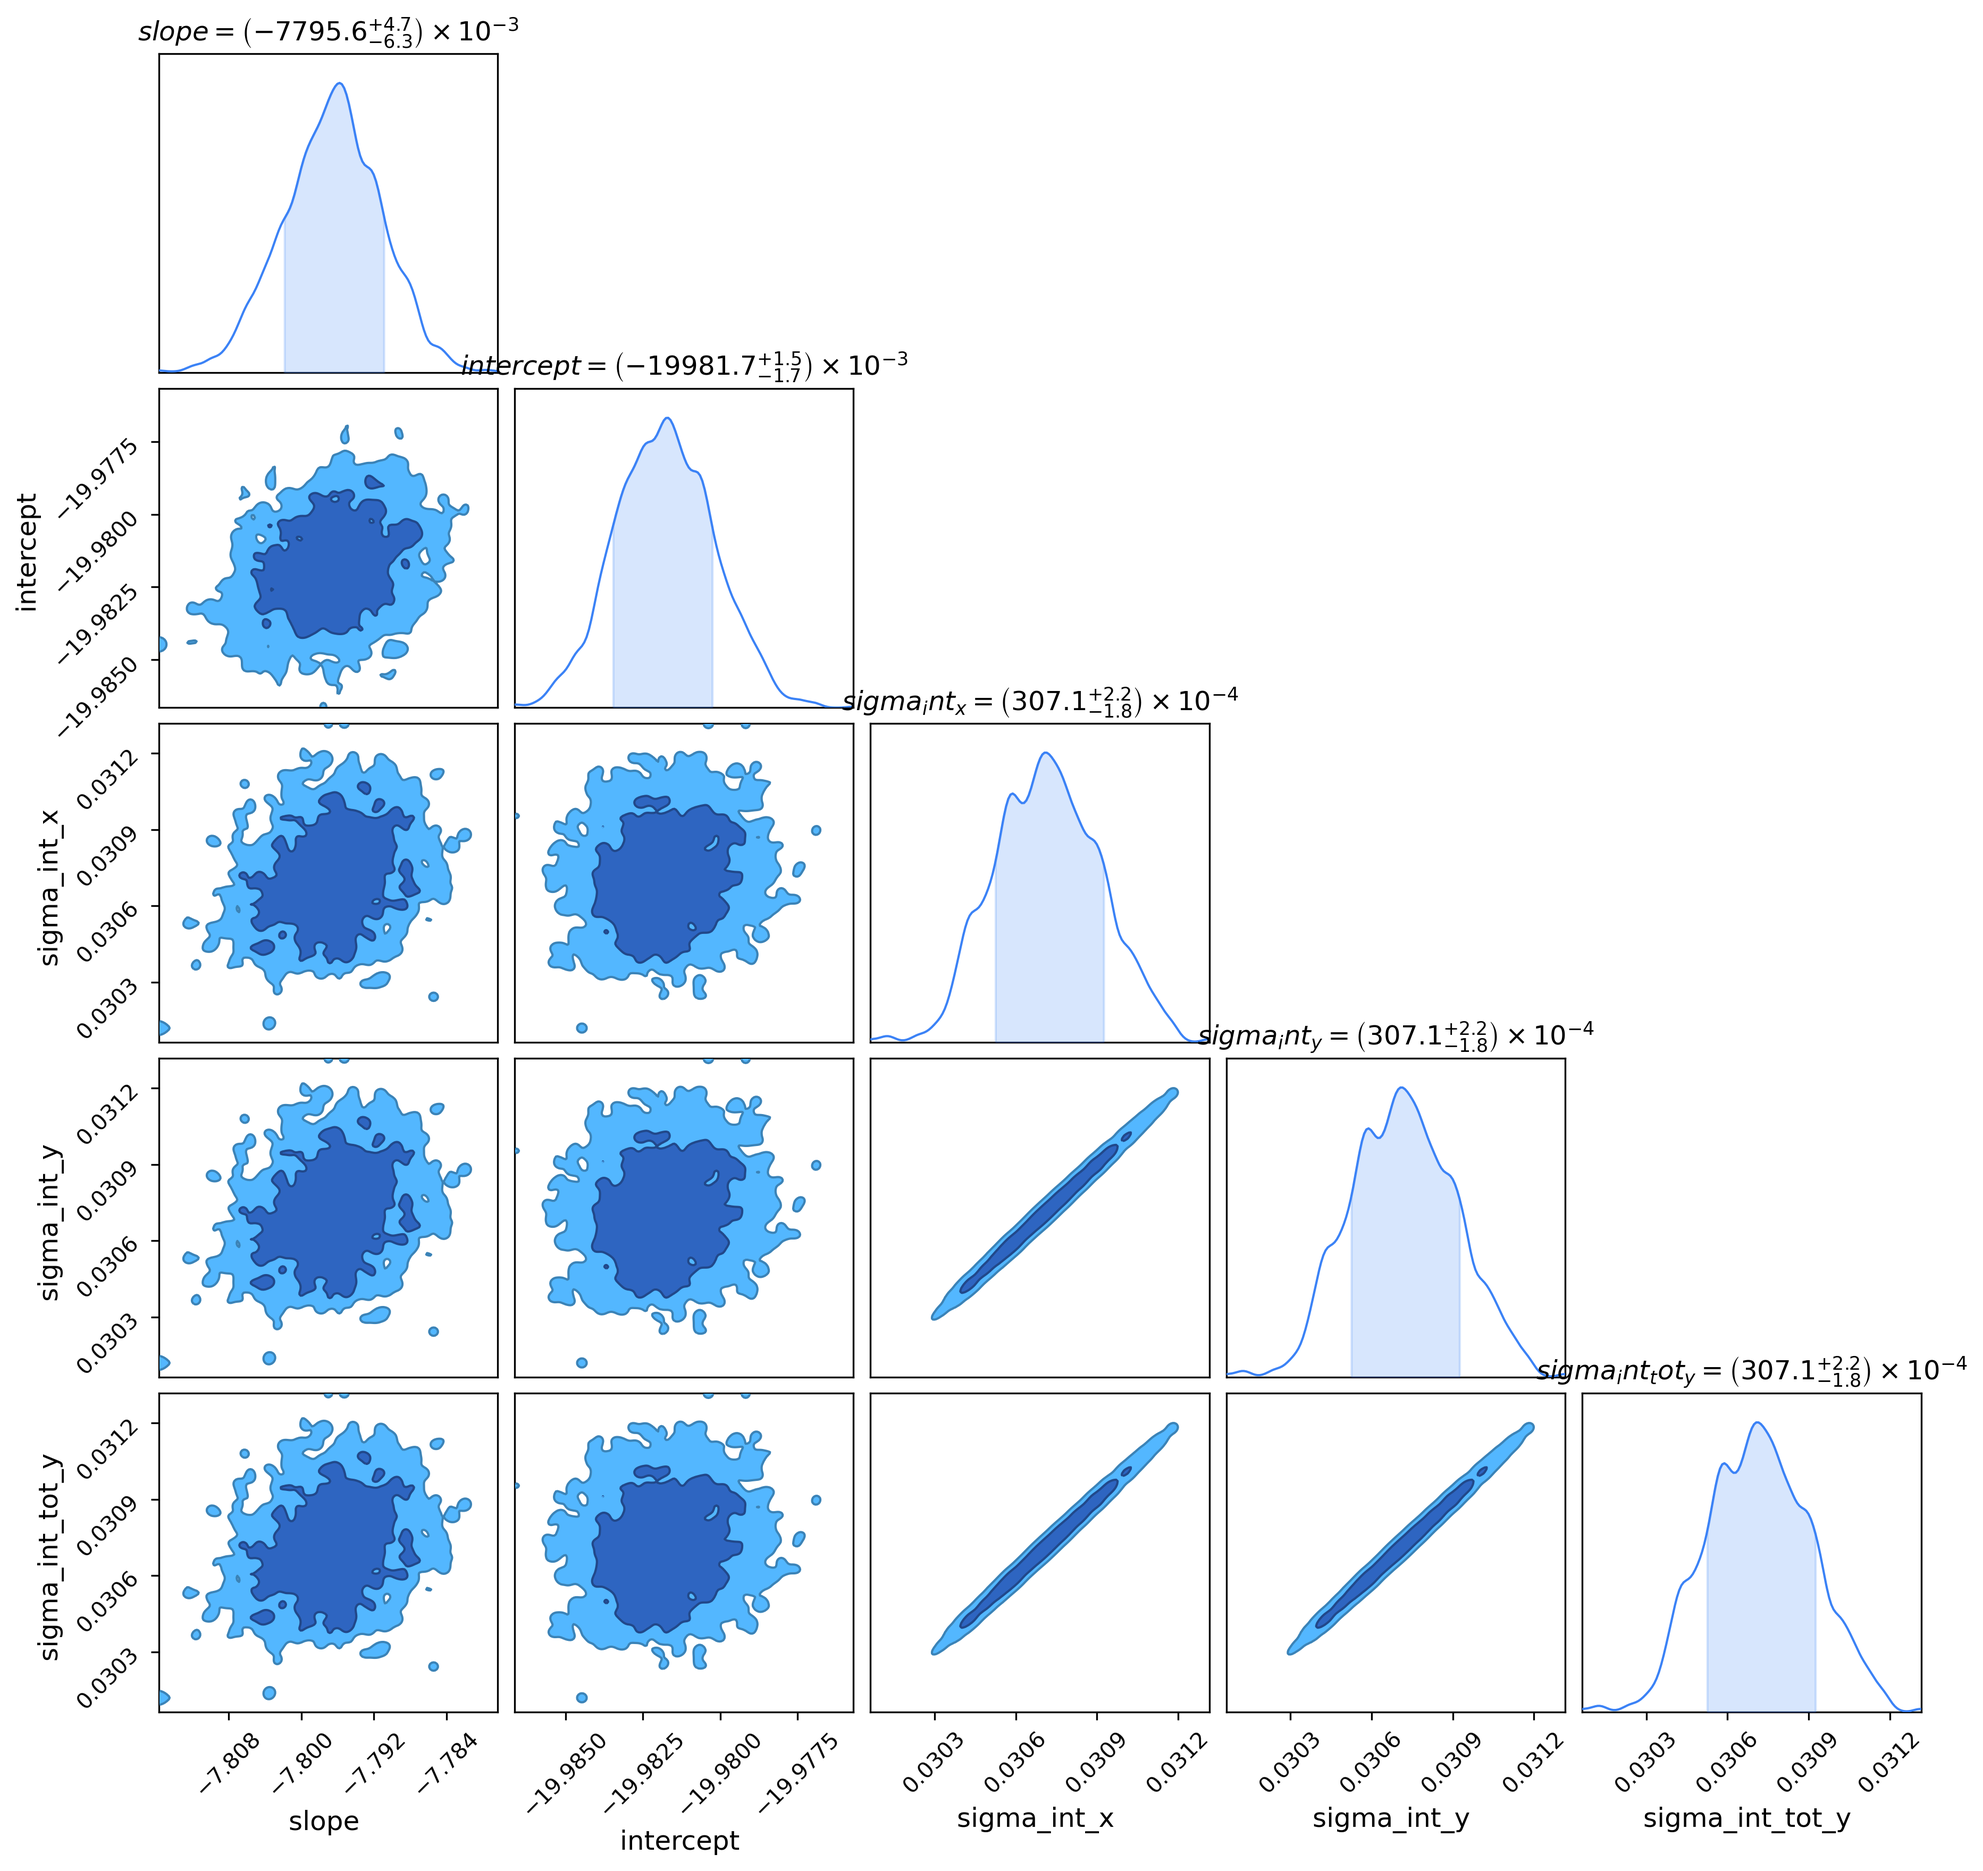
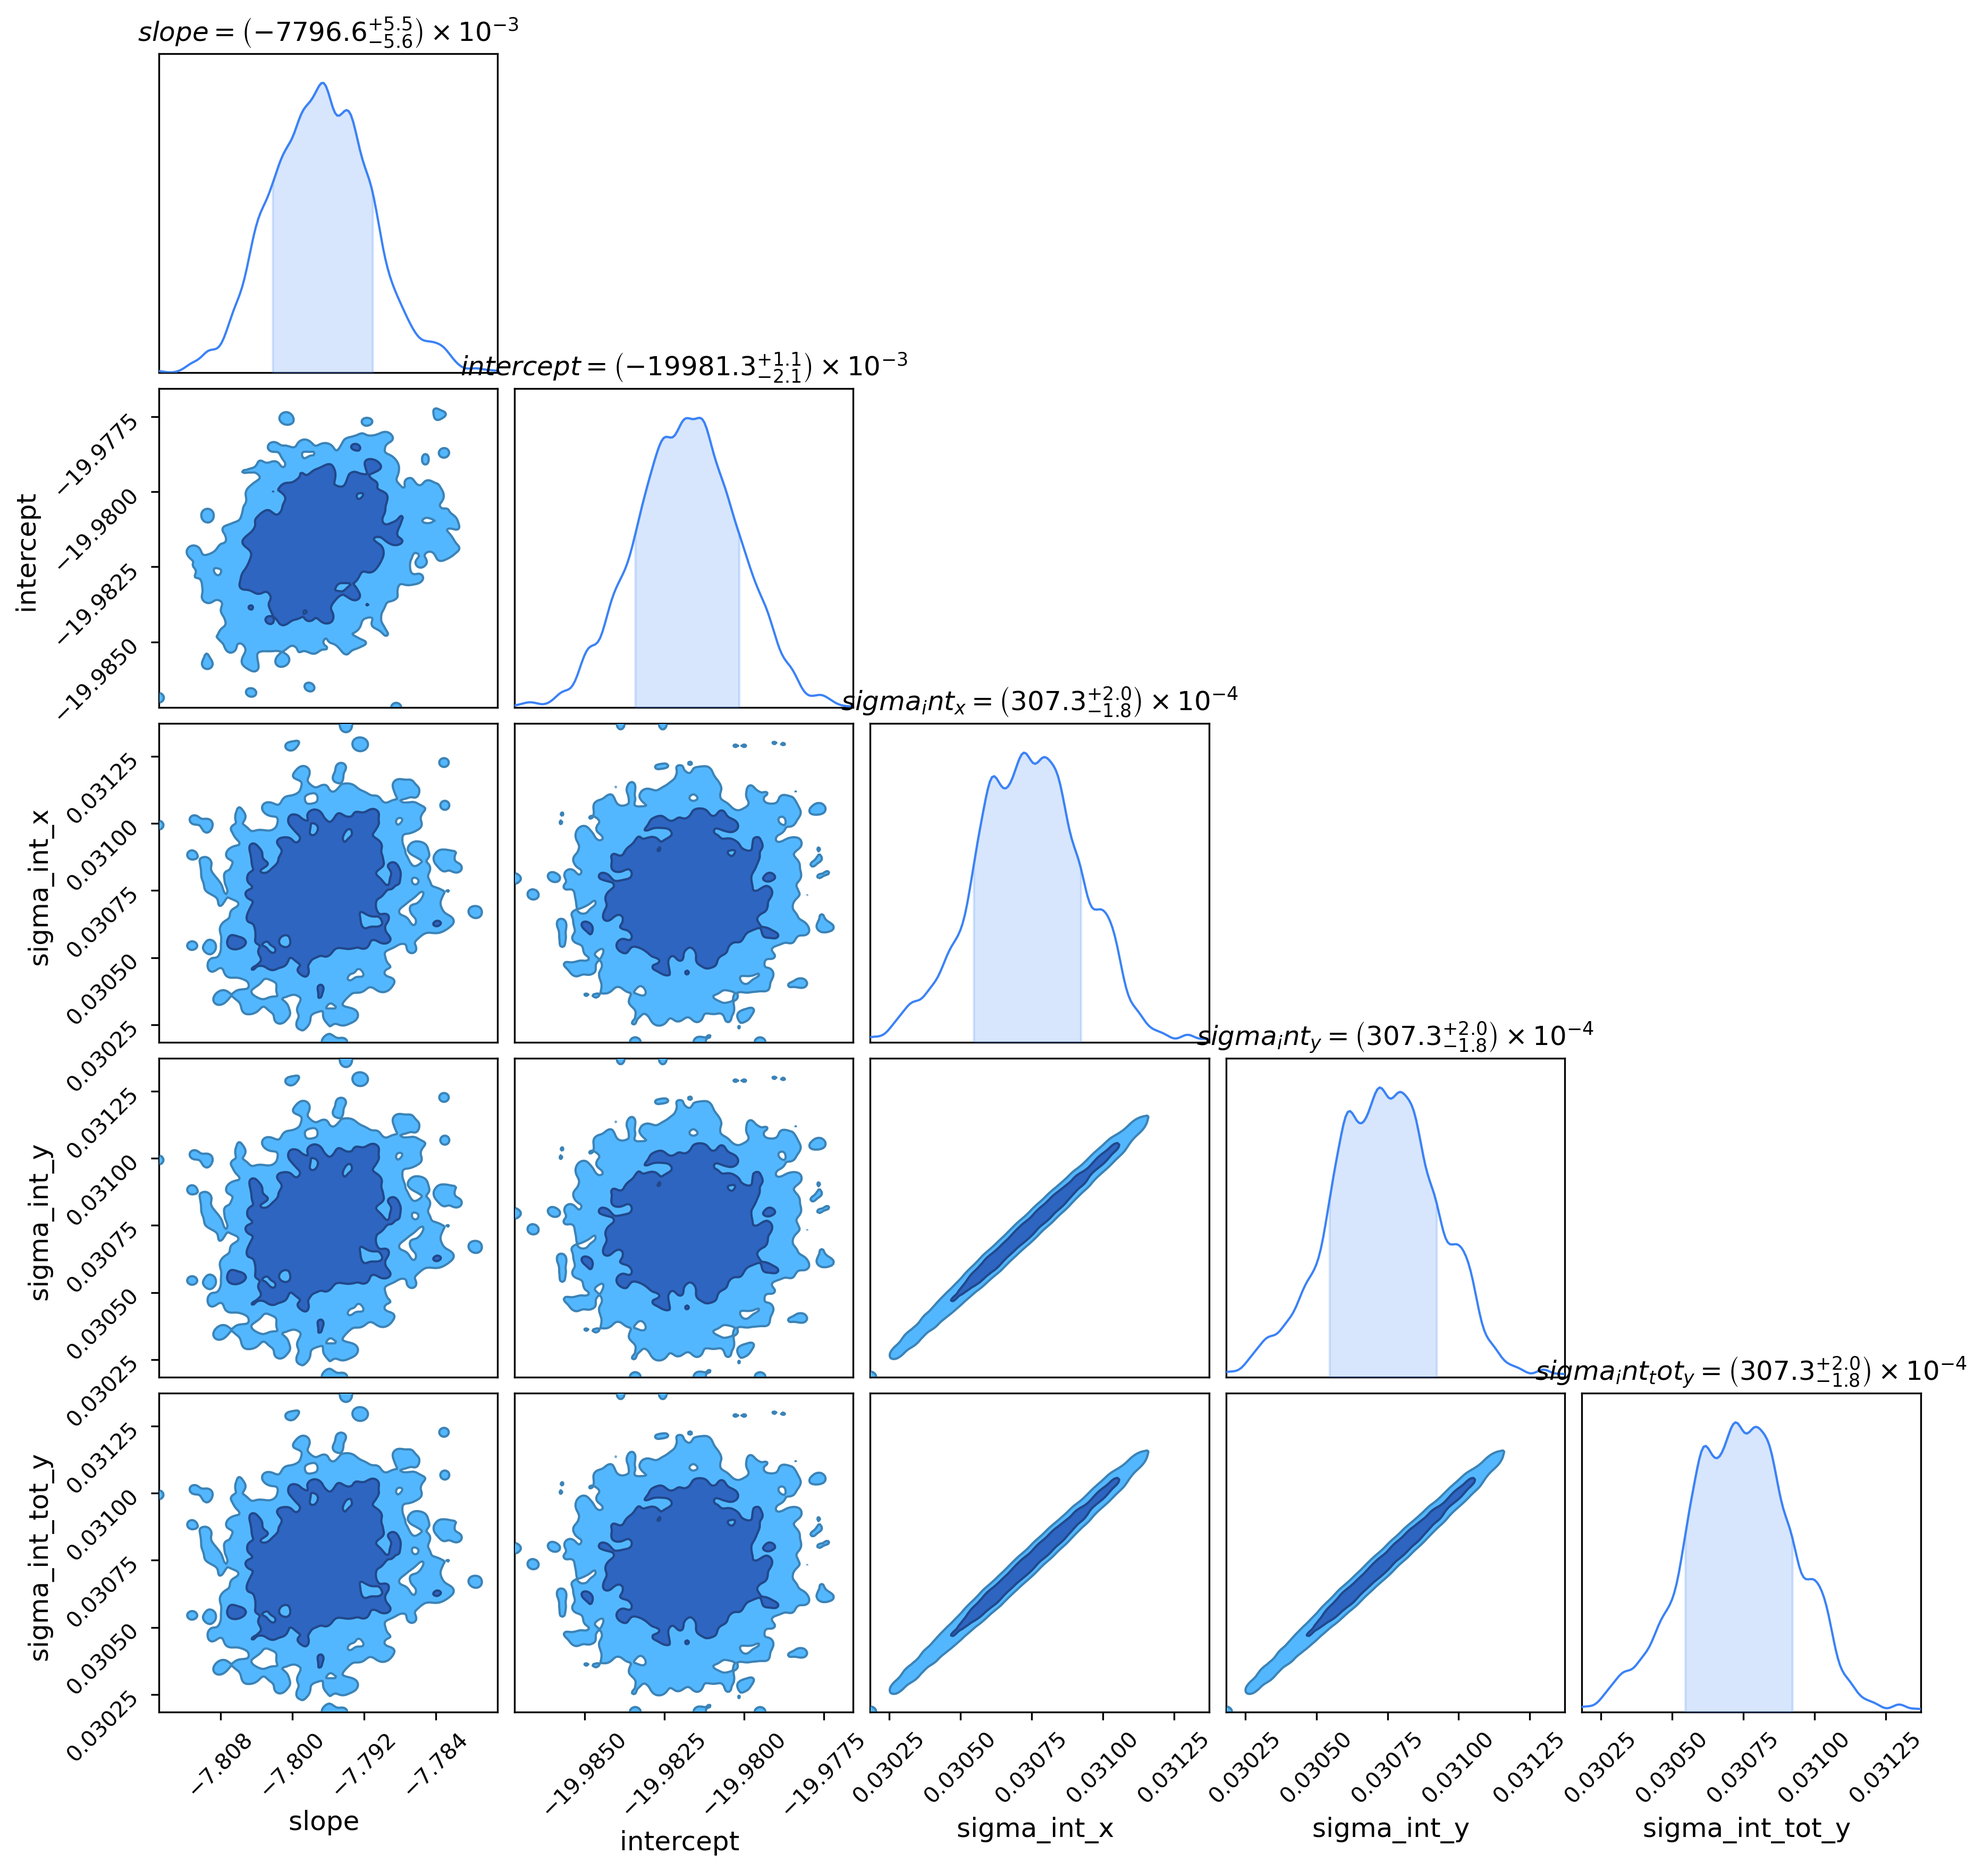
Looks correct for three cases.  Need to do fourth

diff --git a/base_data.py b/base_data.py
@@ -113,10 +113,10 @@ def process_tf_data(csv_file, data_output_file, init_output_file):
         'x_TF_std': x_std.tolist(),
         'slope_std': float(slope_std),
         'intercept_std': intercept_std_vec,
-        'sigma_int_x_std': 0.05,
-        'sigma_int_y': 0.05
+        'sigma_int_tot_y': 0.05,
+        'theta_int': np.pi/4
     }
-    
+
     # Write initial conditions to JSON file
     with open(init_output_file, 'w') as f:
         json.dump(init_data, f, indent=2)
@@ -147,8 +147,8 @@ def process_tf_data(csv_file, data_output_file, init_output_file):
     print(f"  slope_orig: {slope_orig:.6f}")
     print(f"  intercept_orig: {intercept_orig:.6f}")
     print(f"\nInitial scatter parameters:")
-    print(f"  sigma_int_x_std: {init_data['sigma_int_x_std']}")
-    print(f"  sigma_int_y: {init_data['sigma_int_y']}")
+    print(f"  sigma_int_tot_y: {init_data['sigma_int_tot_y']}")
+    print(f"  theta_int: {init_data['theta_int']}")
 
 
 if __name__ == '__main__':
